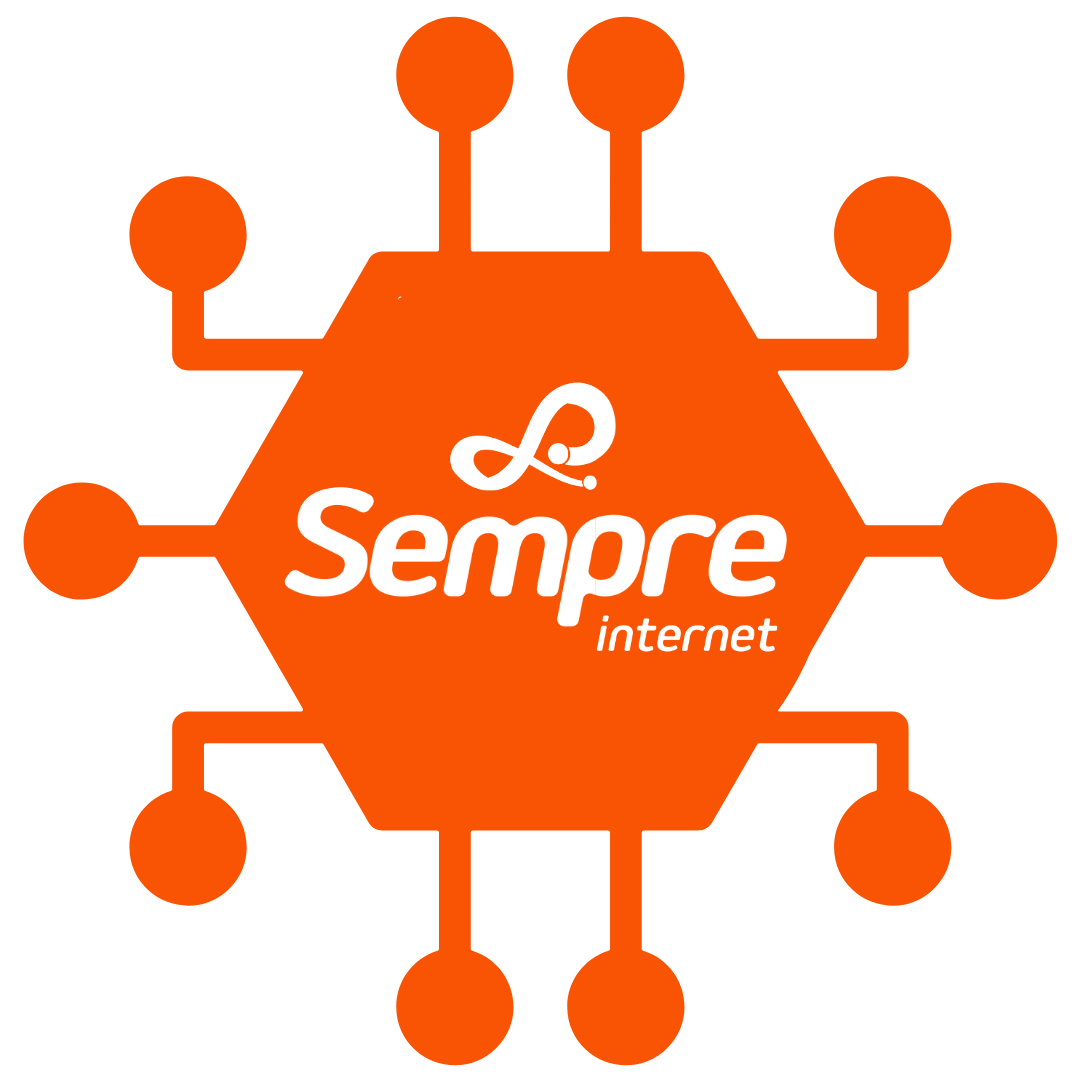
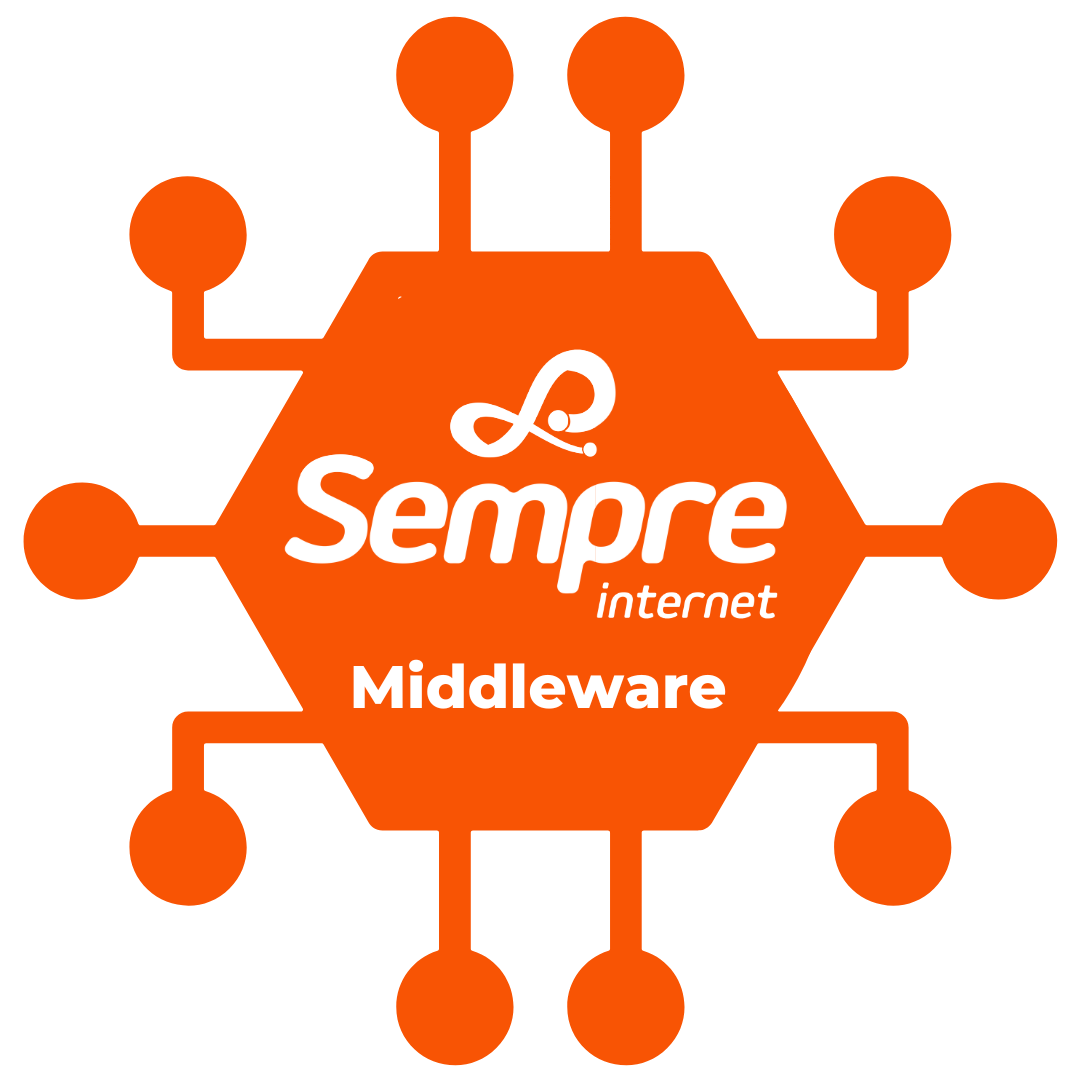
Atualização de projeto

Changed region(s): [[0.2444, 0.3056, 0.7333, 0.6722]]

diff --git a/styles.css b/styles.css
@@ -63,6 +63,8 @@
   border-radius: 50%;
   z-index: 2;
 }
+
+.blip,
 .bd,
 .geomap,
 .hub,
@@ -127,6 +129,14 @@
   animation: orbitar 22.5s linear infinite;
 }
 
+.blip {
+  top: -55em;
+  left: -55em;
+  width: 150em;
+  height: 150em;
+  animation: orbitar 21s linear infinite;
+}
+
 .senior-tools {
   top: 0;
   right: 0;
@@ -157,6 +167,7 @@
 .otrs::before,
 .geomap::before,
 .bd::before,
+.blip::before,
 .senior-tools::before,
 .senior-tools2::before,
 .senior-tools3::before {
@@ -217,6 +228,16 @@
   height: 7em;
   background-image: url(/img/database.png);
   background-size: cover;
+}
+
+.blip::before {
+  top: 19em;
+  right: 19em;
+  width: 7em;
+  height: 7em;
+  background-image: url(/img/dir_comercial/blip.jpeg);
+  background-size: cover;
+  background-position: center;
 }
 
 .senior-tools::before {
@@ -356,7 +377,7 @@ button:focus {
   display: flex;
   justify-content: space-evenly;
   flex-wrap: wrap;
-  background-color: aliceblue;
+  /* background-color: aliceblue; */
   padding: 20px;
   z-index: 4;
 }
@@ -364,7 +385,7 @@ button:focus {
 .setor {
   width: 300px;
   height: auto;
-  border: 1px solid #ccc;
+  background-color: aliceblue;
   border-radius: 5px;
   margin-bottom: 40px;
   box-shadow: 11px 19px 15px -3px rgba(0, 0, 0, 0.1);

diff --git a/index.html b/index.html
@@ -26,6 +26,7 @@
       <div class="otrs"></div>
       <div class="geomap"></div>
       <div class="bd"></div>
+      <div class="blip"></div>
     </div>
     <div id="container-subtitle" class="container-subtitle">
       <div id="senior"  class="senior-legenda clicar"></div>
@@ -125,6 +126,9 @@
         <div class="tools-icon">
             <img src="/img/dir_comercial/uniq.jpeg" alt="...">
         </div>
+        <div class="tools-icon">
+          <img src="/img/dir_comercial/blip.jpeg" alt="...">
+      </div>
       </div>
     </div>
     <div class="setor">
